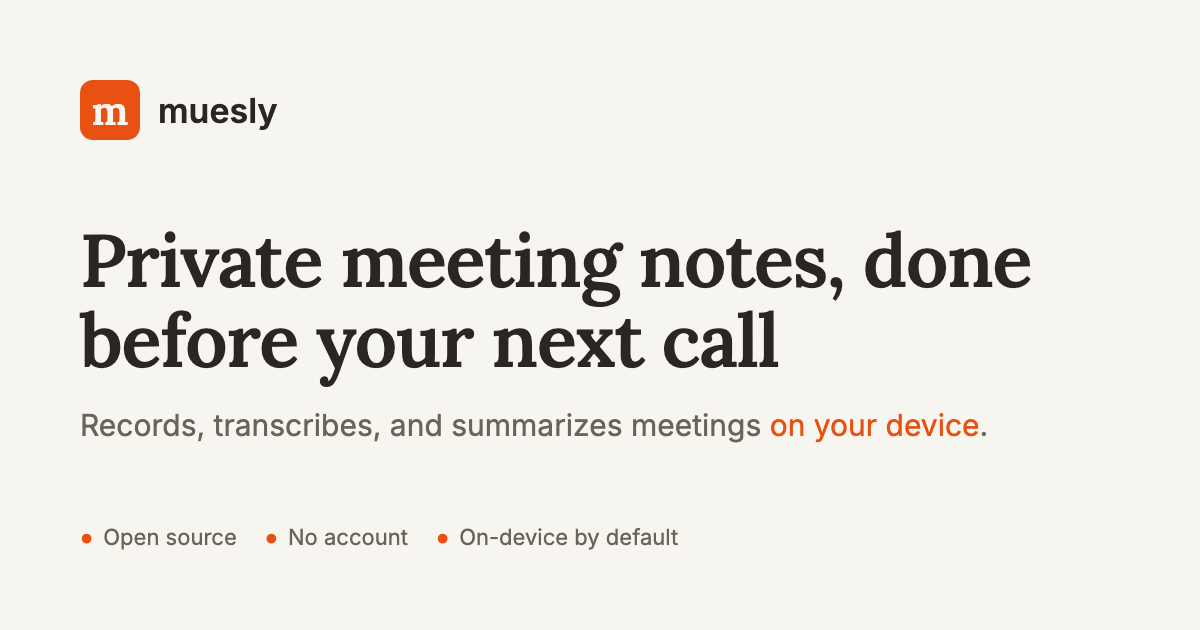
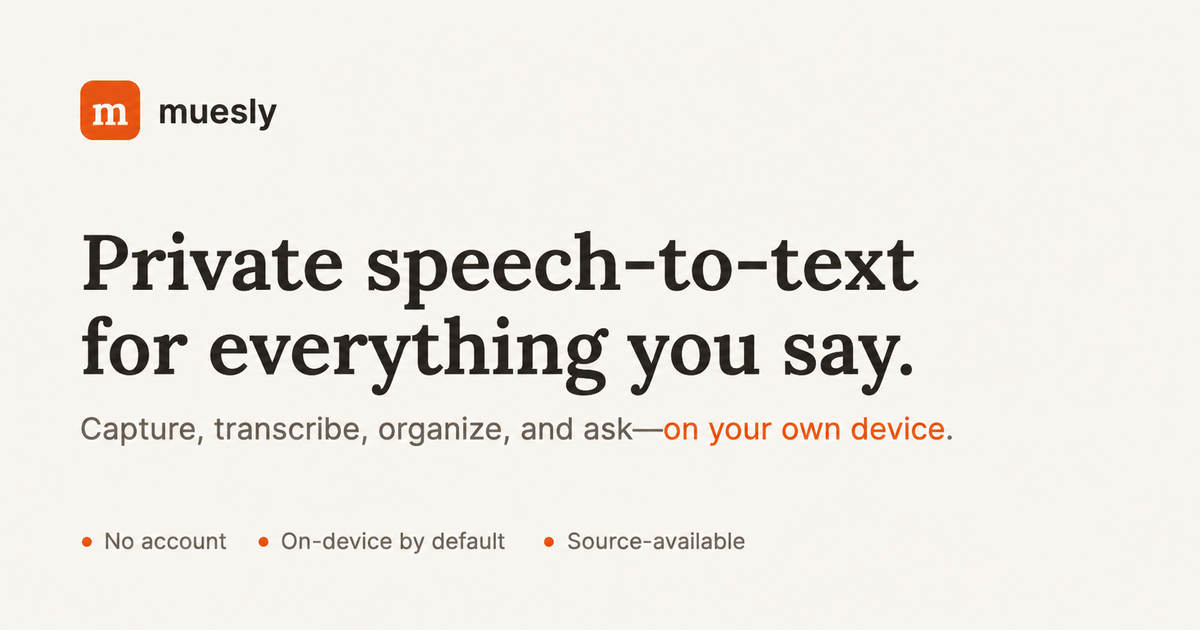
chore(site): use canonical Open Graph image name

diff --git a/site/scripts/smoke-built-site.ts b/site/scripts/smoke-built-site.ts
@@ -30,7 +30,7 @@ for (const route of routes) {
 	if (/href="(?:undefined|null)"/.test(html)) failures.push(`invalid link value: ${route}`);
 }
 
-for (const asset of ['_headers', 'og-2026.png', 'favicon.svg', 'sitemap-index.xml']) {
+for (const asset of ['_headers', 'og.png', 'favicon.svg', 'sitemap-index.xml']) {
 	if (!existsSync(resolve(dist, asset))) failures.push(`missing production asset: ${asset}`);
 }
 